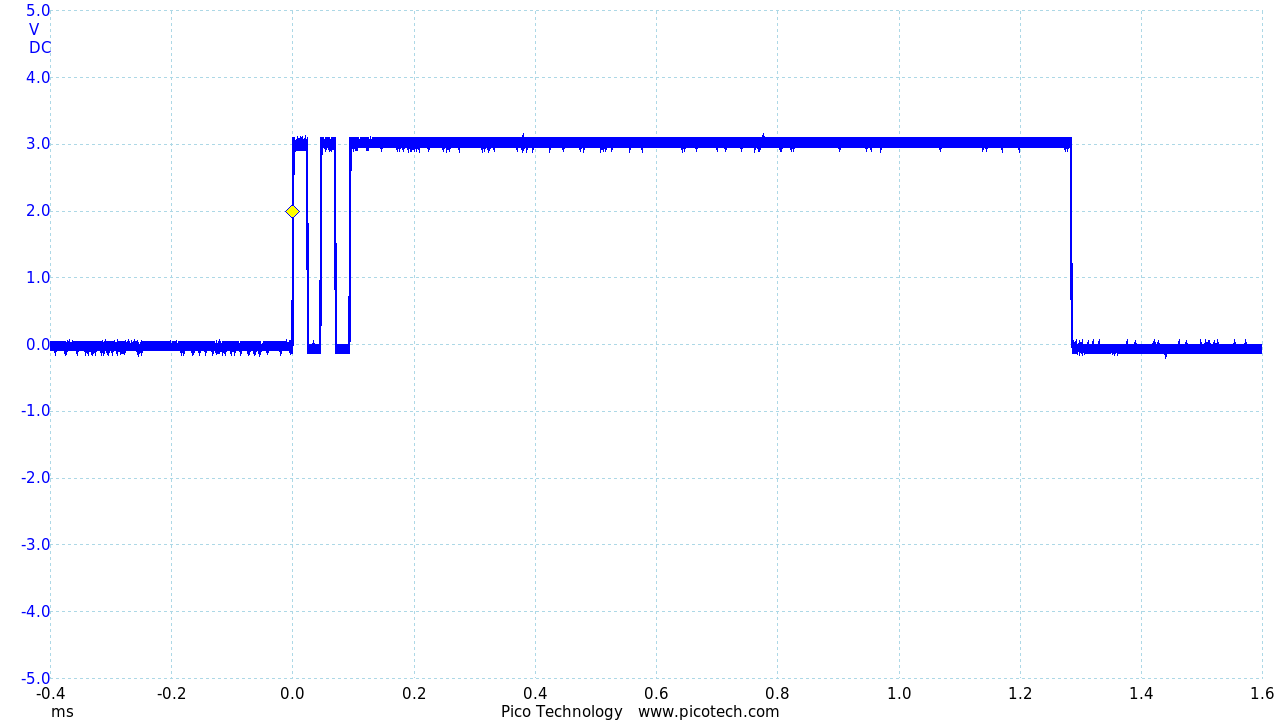
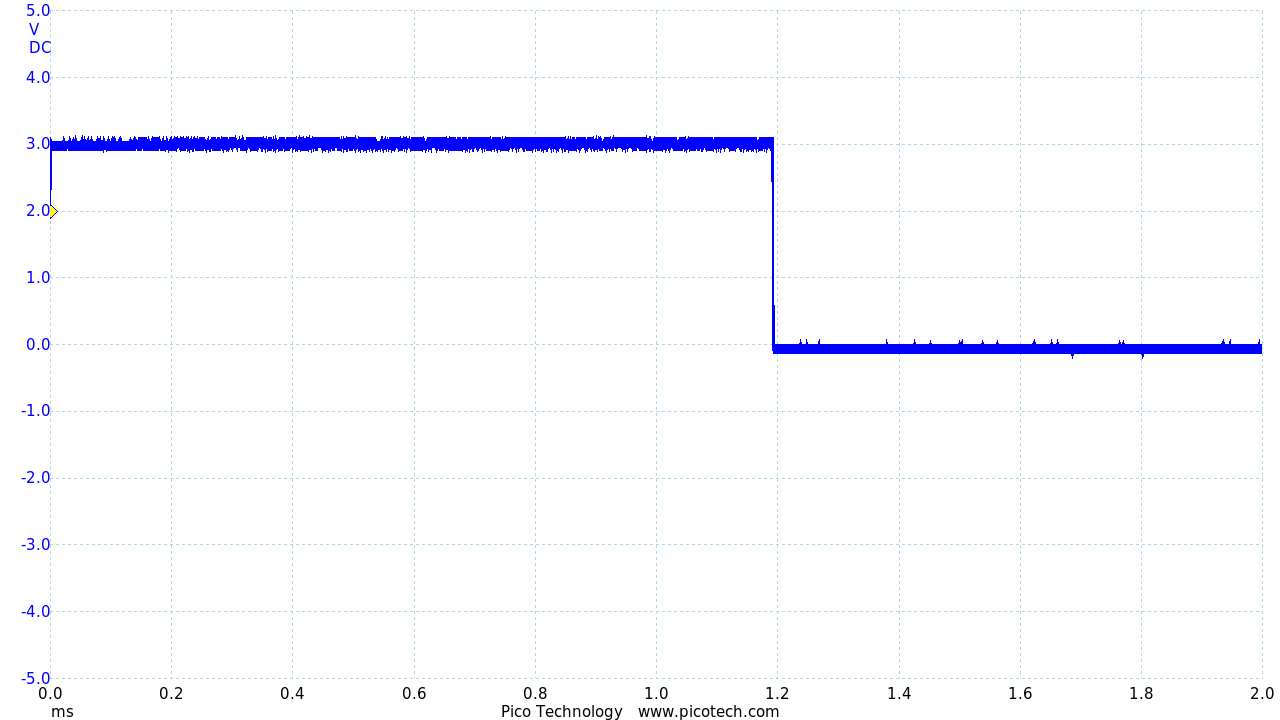
Update readme again

diff --git a/README.md b/README.md
@@ -99,7 +99,7 @@ After programming, press the RST button on the Edge board. The green LED (labell
 The provided test code toggles GPIOs to be measured by an oscilloscope for timing the AES execution.
 
 Probe pin 1 (labelled on the silkscreen) and reset the device to re-execute the AES encryption.
-Before AES encryption, the pin will toggle 3 times and then clear.
+Before AES encryption, the pin is cleared.
 Then, the pin is set immediately before the AES encryption and cleared immediately after.
 Below is an example of the expected waveform for AES192.
 ![AES192 Encryption Waveform](aes192apollo.png)
